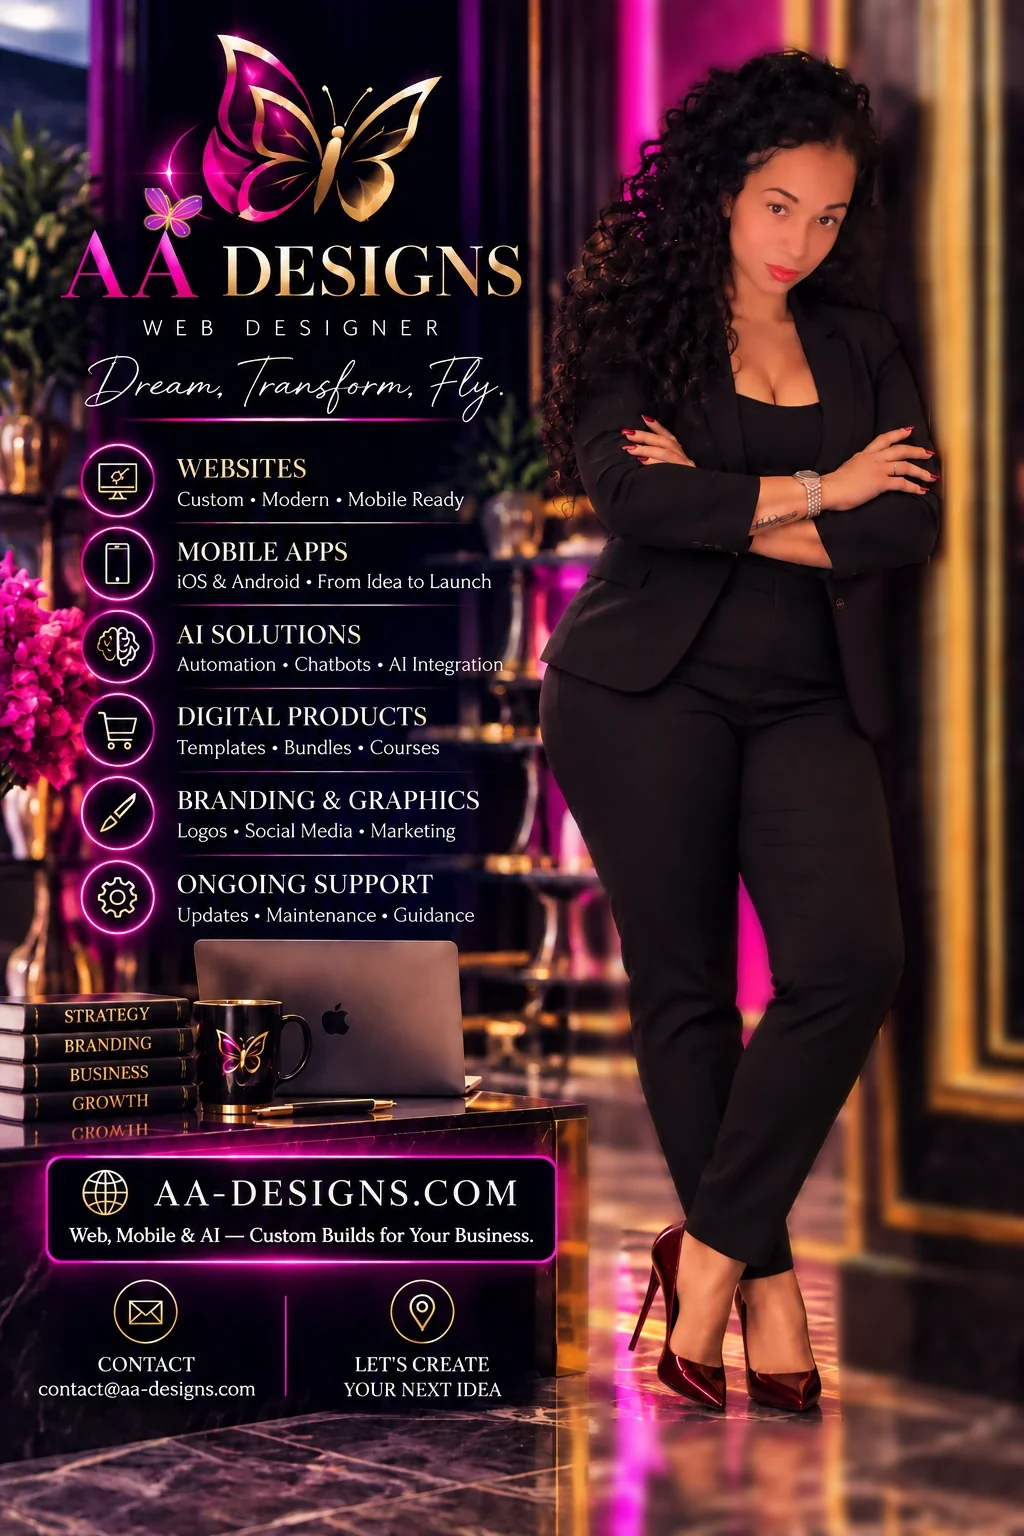
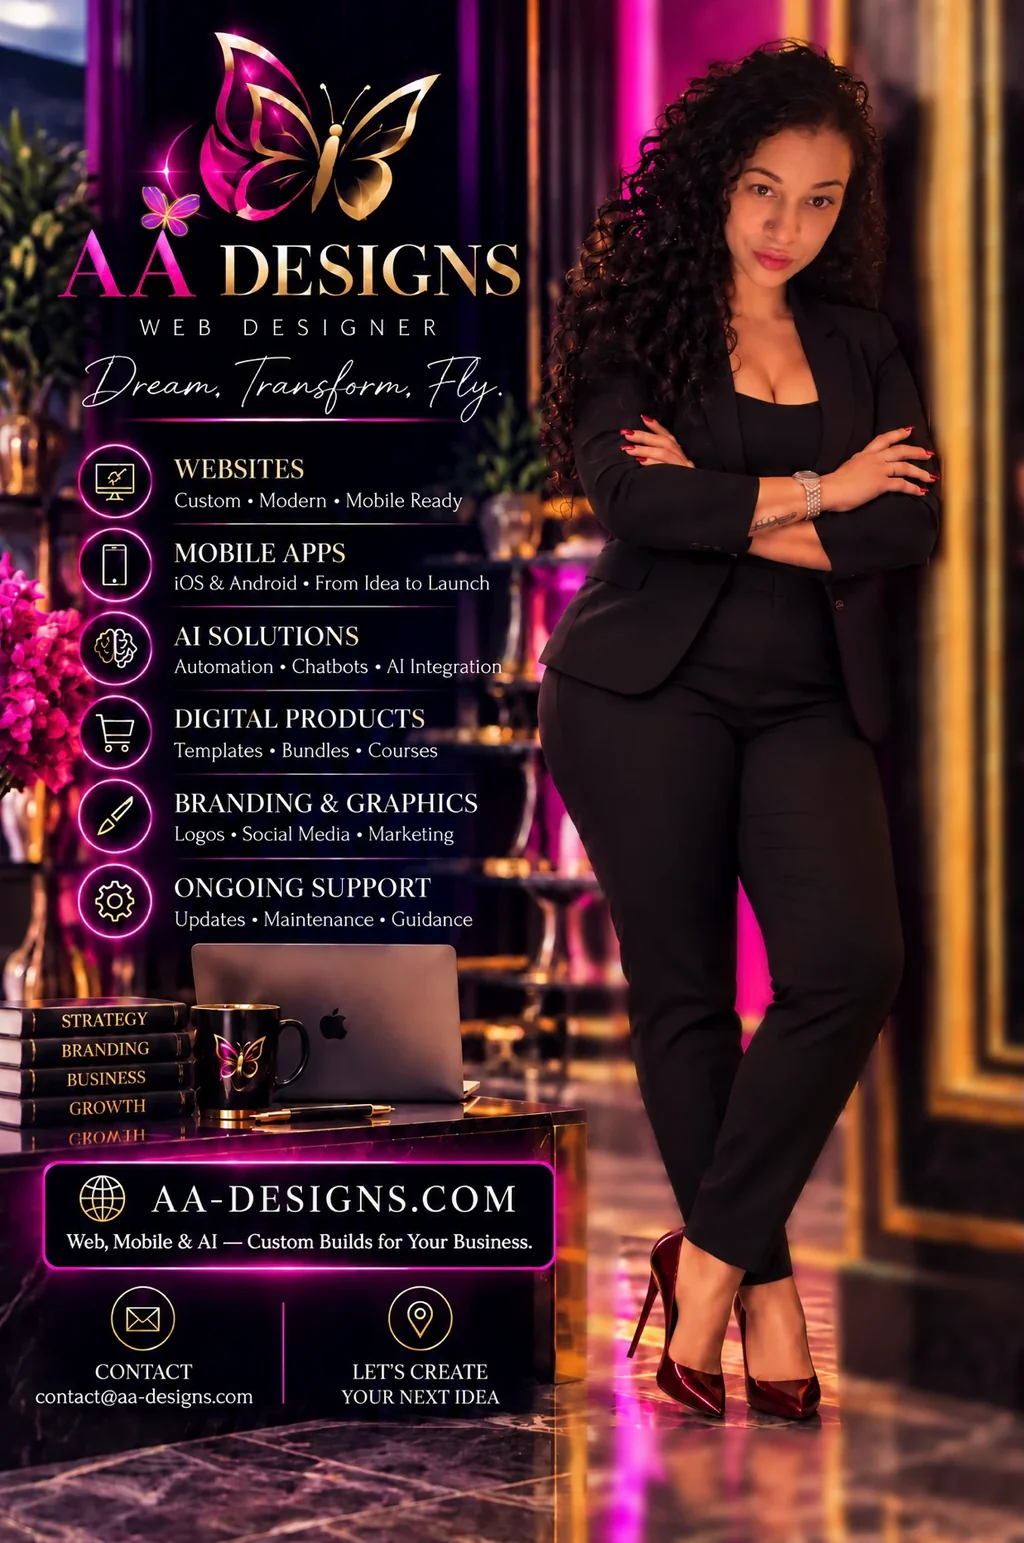
Use owner's final poster as the single source for all site imagery
Replace the homepage figure, logo emblem and wordmark, poster image, link
preview image, background glow and favicons with versions cut from the
owner-supplied final poster; lock that poster in brand/.

Claude-Session: https://claude.ai/code/session_015wuyvstmXxBj45ko7vt56y

diff --git a/aa-designs-site/src/pages/Home.tsx b/aa-designs-site/src/pages/Home.tsx
@@ -24,16 +24,16 @@ export default function Home() {
           alt=""
           aria-hidden="true"
           width={408}
-          height={1373}
+          height={1396}
           fetchPriority="high"
         />
         <Butterflies />
 
         <div className="container">
           <div className="hero-content">
-            <img className="hero-emblem" src="/images/logo-emblem.webp" alt="" width={249} height={195} />
+            <img className="hero-emblem" src="/images/logo-emblem.webp" alt="" width={246} height={195} />
             <h1 id="hero-title" className="hero-title">AA Designs — Web Designer</h1>
-            <img className="hero-wordmark" src="/images/logo-wordmark.webp" alt="AA Designs" width={464} height={113} />
+            <img className="hero-wordmark" src="/images/logo-wordmark.webp" alt="AA Designs" width={470} height={117} />
             <p className="hero-role">Web Designer</p>
             <p className="script hero-slogan">Dream, Transform, Fly.</p>
             <hr className="divider" />

diff --git a/aa-designs-site/src/pages/Portfolio.tsx b/aa-designs-site/src/pages/Portfolio.tsx
@@ -22,7 +22,7 @@ export default function Portfolio() {
             <Reveal key={i} className="panel card project">
               <div className={`project-art${p.placeholder ? ' placeholder' : ''}`}>
                 {p.placeholder ? (
-                  <img src="/images/logo-emblem.webp" alt="" loading="lazy" width={249} height={195} />
+                  <img src="/images/logo-emblem.webp" alt="" loading="lazy" width={246} height={195} />
                 ) : (
                   <span className="art-title">{p.title}</span>
                 )}

diff --git a/aadesigns-main/brand/LOCKED.md b/aadesigns-main/brand/LOCKED.md
@@ -1,11 +1,10 @@
 # AA Designs — Approved Poster (LOCKED)
 
 `aa-designs-poster-APPROVED.png` is the single source of truth for the AA Designs redesign.
-Approved by the owner. Do not use any other poster or photograph.
+Approved by the owner (updated version supplied by the owner). Do not use any other poster or photograph.
 
-- Real photograph, face unchanged (head and face uniformly resized, ~7.2 heads tall)
+- Owner-supplied final poster: real photograph, black suit, butterfly on the first "A"
 - Original black suit
-- Butterfly perched on the second "A" of the logo
 - Softly blurred room background; subject, text and logo sharp
 
 `aa-designs-poster-APPROVED-as-sent.webp` is the identical image as the owner sent it back.
